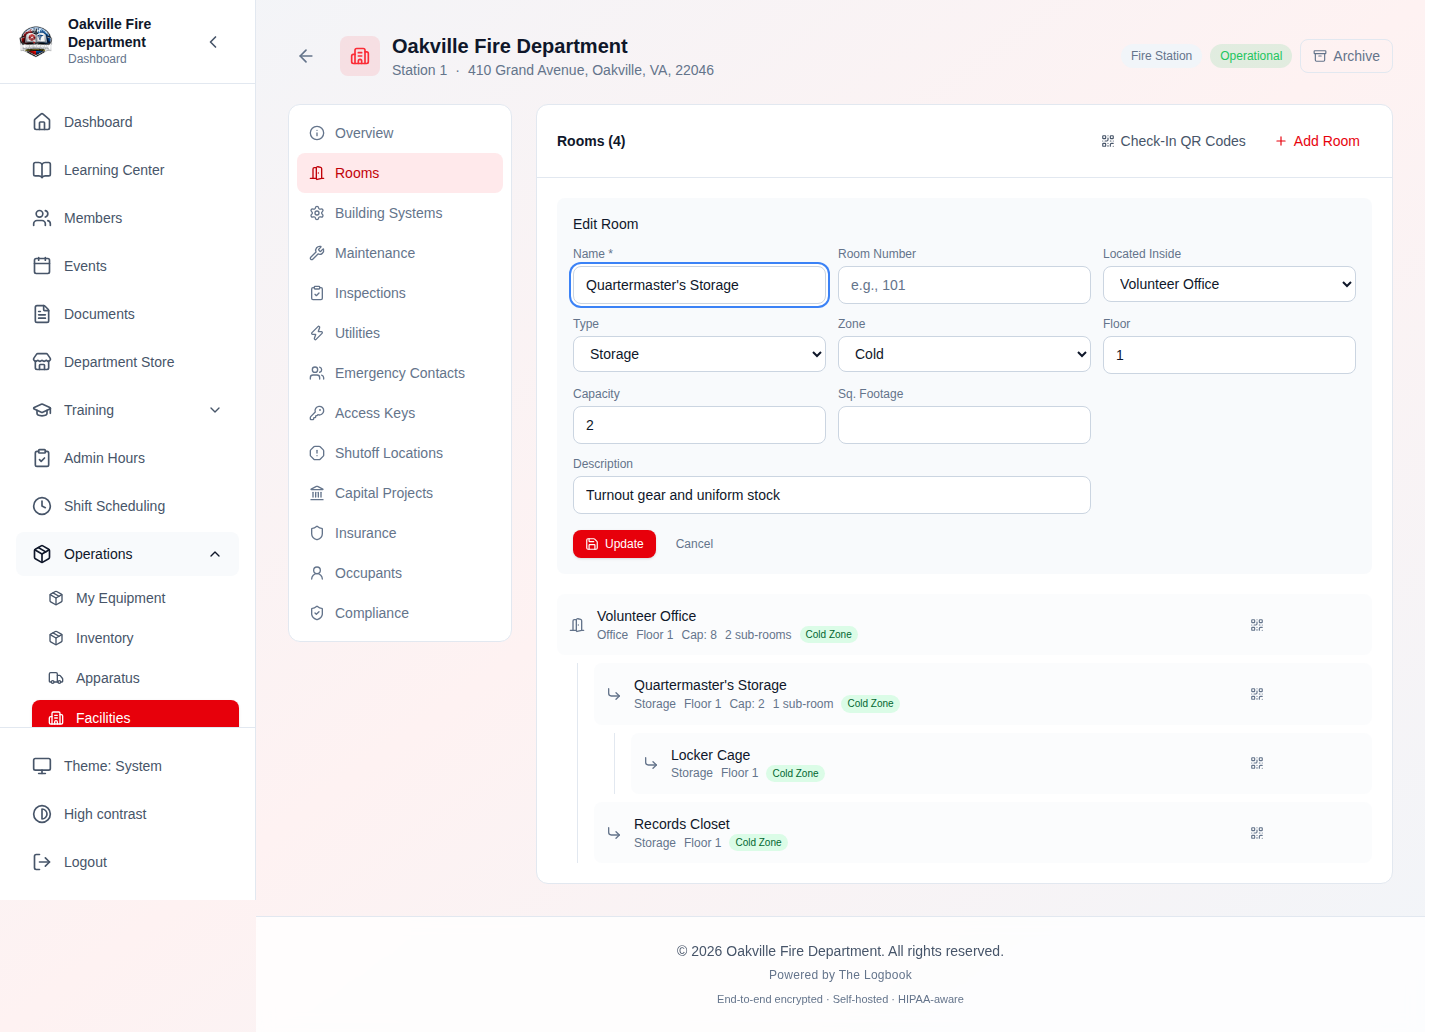
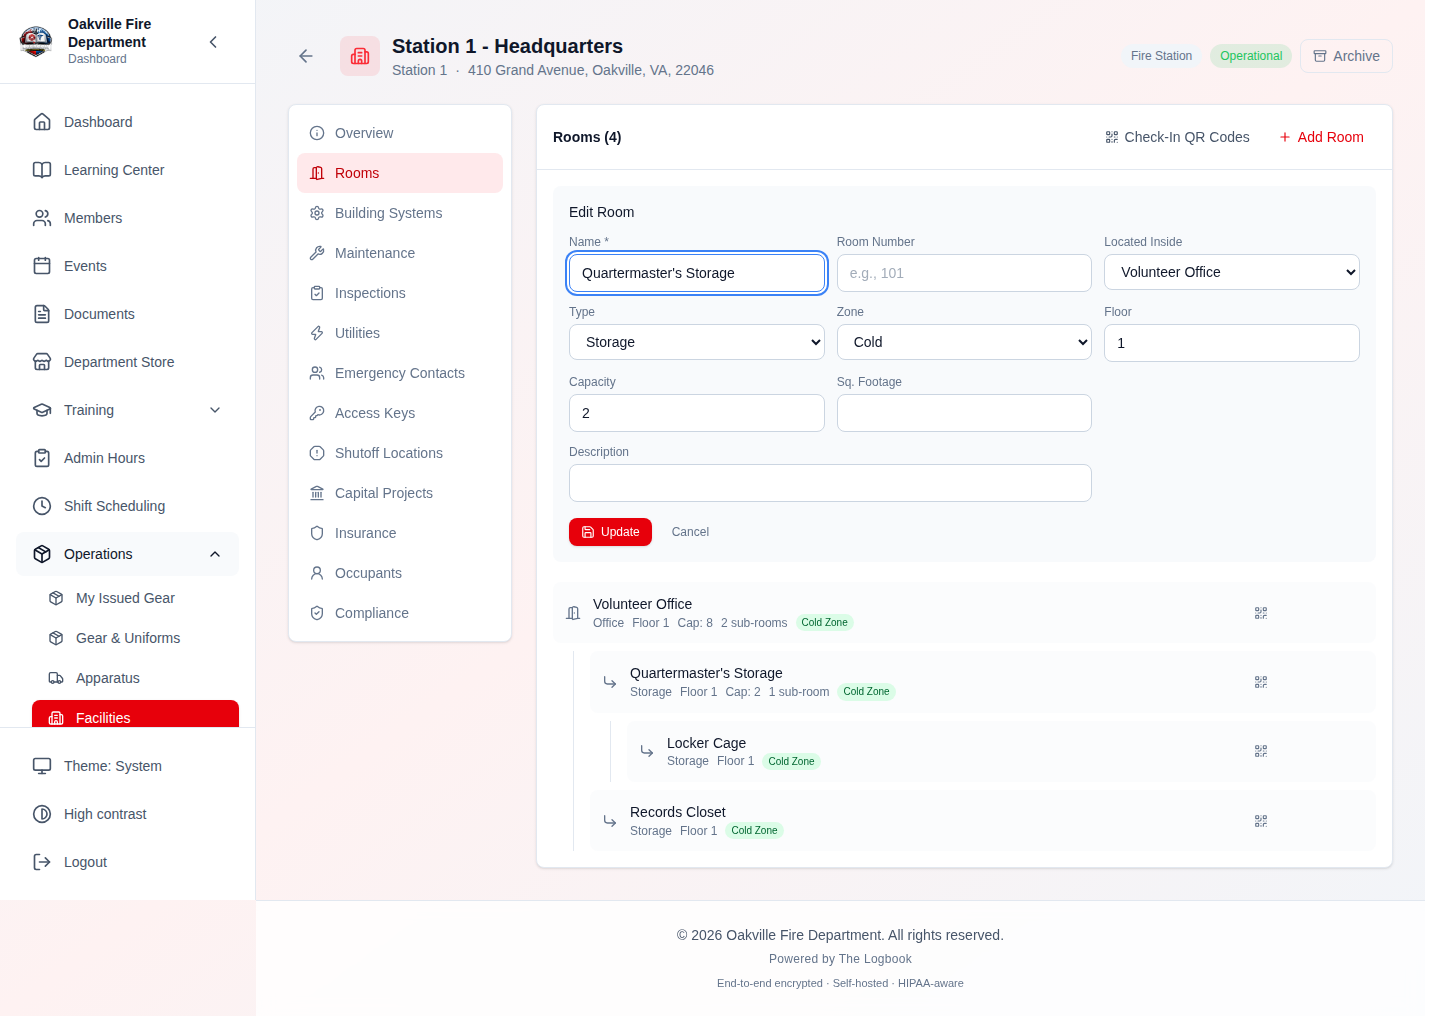
Seed the room tree, and fix what the delete confirmation promised
The three nested-room captures (06-24, 06-25, 06-26) failed with a 20-second
locator timeout on a room nothing had created. The currency log described them
as re-shooting rather than going stale, and half of that was true: the manifest
drives the capture, but seed_demo_data.py never contained the word "Volunteer
Office". The tree was built by hand during the 2026-08-17 capture session and
lived only in whichever database that session was using; dropping that database
destroyed it.

HQ_ROOMS now seeds it -- Volunteer Office, its two sub-rooms, and the grandchild
under one of them -- hung off the facility named in FACILITIES[0] rather than
off whichever the API returns first. A tree that moved between runs would point
three shots at an empty Rooms section without failing anything.

Capturing it surfaced a defect worth more than the screenshot. The delete
confirmation counted descendants, so deleting a room with two sub-rooms and one
grandchild promised that "3 sub-rooms will move up a level". The backend
re-parents WHERE parent_room_id = room_id, so 2 do: a grandchild keeps its own
parent and rides along inside that subtree. The dialog also contradicted the row
badge directly above it, which has always shown the direct count. On a
confirmation whose only job is to state the consequence of something
irreversible, being wrong about the consequence is the whole problem. It now
uses the direct count, with a test that fails against the old implementation.
[…]

diff --git a/frontend/src/modules/facilities/components/RoomsSection.tsx b/frontend/src/modules/facilities/components/RoomsSection.tsx
@@ -18,7 +18,7 @@ import type { Room } from '../types';
 import { enumLabel, ZONE_CLASSIFICATION_COLORS } from '../types';
 import { inputCls, labelCls, MAX_ROOM_NESTING_DEPTH, ROOM_TYPE_OPTIONS, ZONE_OPTIONS } from '../constants';
 import type { RoomNode } from '../roomTree';
-import { buildRoomTree, collectSubtreeIds, countDescendants, orderRoomsByHierarchy } from '../roomTree';
+import { buildRoomTree, collectSubtreeIds, orderRoomsByHierarchy } from '../roomTree';
 import { blankToNull, numberOrNull } from '../../../utils/formValues';
 import { getErrorMessage } from '../../../utils/errorHandling';
 import { formatNumber } from '../../../utils/dateFormatting';
@@ -229,7 +229,14 @@ export default function RoomsSection({ facilityId, canCreate, canEdit, canDelete
   };
 
   const handleDelete = async (node: RoomNode) => {
-    const nested = countDescendants(node);
+    // Direct children, not the whole subtree. The backend re-parents only the
+    // rooms whose parent is this one (`WHERE parent_room_id = room_id`), so a
+    // grandchild keeps its own parent and moves up inside that subtree rather
+    // than one level on its own. Counting descendants overstated what happens:
+    // deleting a room with two sub-rooms and one grandchild promised that "3
+    // sub-rooms will move up a level" when 2 do -- and contradicted the row
+    // badge directly above it, which has always shown the direct count.
+    const nested = node.children.length;
     // Sub-rooms survive: the backend re-parents them onto this room's parent.
     const message = nested
       ? `Delete "${node.room.name}"? Its ${nested === 1 ? 'sub-room' : `${nested} sub-rooms`} will move up a level rather than be deleted. This cannot be undone.`

diff --git a/frontend/src/modules/facilities/components/RoomsSection.test.tsx b/frontend/src/modules/facilities/components/RoomsSection.test.tsx
@@ -203,4 +203,39 @@ describe('RoomsSection nesting', () => {
       expect(deleteRoom).toHaveBeenCalledWith('office');
     });
   });
+
+  it('counts only the rooms that actually move up, not the whole subtree', async () => {
+    // The backend re-parents `WHERE parent_room_id = room_id`, so a grandchild
+    // keeps its own parent and rides along inside that subtree. Counting
+    // descendants told the officer "3 sub-rooms will move up a level" when 2
+    // do, on a dialog whose whole job is to state the consequence of something
+    // irreversible -- and disagreed with the row badge directly above it.
+    const lockerCage = {
+      id: 'locker-cage',
+      facilityId: 'facility-1',
+      name: 'Locker Cage',
+      roomType: 'storage',
+      parentRoomId: 'storage',
+      createdAt: '2026-08-16T00:00:00Z',
+      updatedAt: '2026-08-16T00:00:00Z',
+    };
+    const recordsCloset = {
+      id: 'records-closet',
+      facilityId: 'facility-1',
+      name: 'Records Closet',
+      roomType: 'storage',
+      parentRoomId: 'office',
+      createdAt: '2026-08-16T00:00:00Z',
+      updatedAt: '2026-08-16T00:00:00Z',
+    };
+    getRooms.mockResolvedValue([office, storage, lockerCage, recordsCloset]);
+
+    const user = userEvent.setup();
+    renderSection();
+
+    await user.click(await screen.findByRole('button', { name: 'Delete room Volunteer Office' }));
+
+    expect(await screen.findByText(/2 sub-rooms will move up a level/)).toBeInTheDocument();
+    expect(screen.queryByText(/3 sub-rooms will move up a level/)).not.toBeInTheDocument();
+  });
 });

diff --git a/scripts/screenshots/seed_demo_data.py b/scripts/screenshots/seed_demo_data.py
@@ -846,6 +846,28 @@ FACILITIES = [
     ("Training & Administration Center", "22 Depot Street", 2004, 9200, 1),
 ]
 
+# Rooms nested inside rooms, at headquarters.
+#
+# Three guide-06 captures (06-24 nested tree, 06-25 "Located Inside", 06-26 the
+# delete-with-sub-rooms confirmation) and guide 19's rooms marker all photograph
+# this tree, and it needs three levels to show anything: a container reporting
+# how many rooms it holds, a sub-room that is itself a container, and a leaf.
+#
+# It was built by hand during the 2026-08-17 capture run and never written
+# down, so it lived only in whichever database that session happened to be
+# using. Dropping that database destroyed it, and the three shots -- which the
+# currency log described as re-shooting rather than going stale -- failed with
+# a 20s locator timeout on a room nothing had created.
+#
+# ``(name, room_type, floor, capacity, parent name or None)``. Order matters:
+# a parent has to exist before the row naming it.
+HQ_ROOMS = [
+    ("Volunteer Office", "office", 1, 8, None),
+    ("Quartermaster's Storage", "storage", 1, 2, "Volunteer Office"),
+    ("Locker Cage", "storage", 1, None, "Quartermaster's Storage"),
+    ("Records Closet", "storage", 1, None, "Volunteer Office"),
+]
+
 
 class Seeder:
     def __init__(self, api: Api, base_url: str, bulk_prospects: int = 0) -> None:
@@ -1248,6 +1270,58 @@ class Seeder:
                     },
                 )
             )
+        return created
+
+    def seed_rooms(self, facilities: list[dict]) -> list[dict]:
+        """Build the nested room tree at headquarters.
+
+        Hung off the first facility in FACILITIES rather than "whichever the
+        API returns first": the captures open the facility by that name, and a
+        tree that moved between runs would point three shots at an empty Rooms
+        section without failing anything.
+        """
+        hq_name = FACILITIES[0][0]
+        hq = next((f for f in facilities if f.get("name") == hq_name), None)
+        if not hq:
+            self.blocked.append(
+                f"rooms: no facility named {hq_name!r} to hang the tree on"
+            )
+            return []
+
+        facility_id = pick(hq, "id")
+        existing = items(
+            self.api.get(f"/facilities/rooms?facility_id={facility_id}"), "rooms"
+        )
+        by_name = {r.get("name"): r for r in existing}
+
+        created: list[dict] = []
+        for name, room_type, floor, capacity, parent_name in HQ_ROOMS:
+            if name in by_name:
+                continue
+            parent = by_name.get(parent_name) if parent_name else None
+            if parent_name and not parent:
+                # The parent failed to create, so this row would silently land
+                # at the top level and flatten the tree the shots are of.
+                self.blocked.append(
+                    f"rooms: {name!r} needs {parent_name!r}, which is not there"
+                )
+                continue
+            payload = {
+                "facility_id": facility_id,
+                "name": name,
+                "floor": floor,
+                "room_type": room_type,
+                # Cold Zone renders as a badge on every row, which is what the
+                # tree capture shows beside the sub-room counts.
+                "zone_classification": "cold",
+            }
+            if capacity is not None:
+                payload["capacity"] = capacity
+            if parent:
+                payload["parent_room_id"] = pick(parent, "id")
+            room = self.api.post("/facilities/rooms", payload)
+            by_name[name] = room
+            created.append(room)
         return created
 
     def seed_locations(self, facilities: list[dict]) -> list[dict]:
@@ -11773,6 +11847,7 @@ class Seeder:
         self.step("member changes", lambda: self.seed_member_changes(members))
         facilities = self.step("facilities", self.seed_facilities) or []
         stations = self.step("stations", lambda: self.seed_locations(facilities)) or []
+        self.step("rooms", lambda: self.seed_rooms(facilities))
         apparatus = self.step("apparatus", lambda: self.seed_apparatus(stations)) or []
         evoc_levels = self.step("evoc levels", self.seed_evoc_levels) or []
         self.step(

diff --git a/docs/training/SCREENSHOT_CURRENCY.md b/docs/training/SCREENSHOT_CURRENCY.md
@@ -1,5 +1,43 @@
 # Screenshot currency
 
+## Captured 2026-08-23 — the room tree, and a fixture that was never written down
+
+`06-24-rooms-nested-tree`, `06-25-room-located-inside` and
+`06-26-room-delete-subrooms` are re-captured, opened, and checked. Two things
+came out of it that outlast the images.
+
+**The room fixture existed only in one database.** The 2026-08-17 entry below
+says these three "are driven from `manifest.mjs` against a seeded demo
+department, so they re-shoot rather than going stale". Half of that was true:
+the manifest drives the capture, but `seed_demo_data.py` never contained the
+word "Volunteer Office". The tree was built by hand during that capture session
+and lived only in whichever database it was using. Dropping that database
+destroyed it, and all three shots failed with a 20-second locator timeout on a
+room nothing had created. The tree is now seeded (`HQ_ROOMS`), hung off the
+facility named in `FACILITIES[0]` rather than off "whichever the API returns
+first" — a tree that moved between runs would point three shots at an empty
+Rooms section without failing anything.
+
+**The delete confirmation misstated what it was about to do.** It counted
+descendants: deleting Volunteer Office — two sub-rooms, one grandchild —
+promised that "3 sub-rooms will move up a level". The backend re-parents
+`WHERE parent_room_id = room_id`, so **2** move; Locker Cage keeps its own
+parent and rides along inside that subtree. The dialog also contradicted the
+row badge directly above it, which has always shown the direct count. On a
+confirmation whose only job is to state the consequence of something
+irreversible, that is worth more than the screenshot. Fixed, with a test that
+fails against the old implementation; `06-26` was re-shot afterwards and now
+reads "Its 2 sub-rooms".
+
+**The stray facility is gone from the pictures.** All three previously showed a
+facility header reading "Oakville Fire Department / Station 1" — the record
+onboarding auto-creates and the seeder then duplicated. They now read
+"Station 1 - Headquarters".
+
+Guide 19's rooms marker asked to reuse this capture rather than take its own
+("shared with lesson 06; capture once, reuse"), so it now references
+`06-24-rooms-nested-tree.png` directly. 439 of 485 filled.
+
 ## Captured 2026-08-23 — the close-out wizard, and why it had never shot
 
 `03-74-settings-call-count-toggle`, `03-75-closeout-step1-attendance`,

diff --git a/docs/training/SCREENSHOT_STATUS.md b/docs/training/SCREENSHOT_STATUS.md
@@ -9,7 +9,7 @@ image still matches the application is tracked by hand in
 [SCREENSHOT_CURRENCY.md](./SCREENSHOT_CURRENCY.md) — this file is
 regenerated wholesale, so that audit cannot live here.
 
-**438 of 485 placeholders filled** (47 remaining).
+**439 of 485 placeholders filled** (46 remaining).
 
 | Guide | Captured | Remaining |
 |-------|---------:|----------:|
@@ -32,6 +32,6 @@ regenerated wholesale, so that audit cannot live here.
 | [16-integrations.md](./16-integrations.md) | 5 | 0 |
 | [17-privacy-data-rights.md](./17-privacy-data-rights.md) | 2 | 2 |
 | [18-storefront.md](./18-storefront.md) | 4 | 0 |
-| [19-august-2026-release-changes.md](./19-august-2026-release-changes.md) | 0 | 23 |
-| **Total** | **438** | **47** |
+| [19-august-2026-release-changes.md](./19-august-2026-release-changes.md) | 1 | 22 |
+| **Total** | **439** | **46** |
 

diff --git a/docs/training/19-august-2026-release-changes.md b/docs/training/19-august-2026-release-changes.md
@@ -258,7 +258,7 @@ re-syncs Locations; clearing floor/capacity/description now persists on save.
 The full walkthrough with screenshot markers lives in
 [Apparatus & Facilities → Nesting rooms inside rooms](./06-apparatus-facilities.md#nesting-rooms-inside-rooms-2026-08-16).
 
-> **[SCREENSHOT NEEDED — nested Rooms tree with counts and add-a-room-inside action (shared with lesson 06; capture once, reuse).]**
+![The Rooms section as a containment tree: sub-rooms indented under the room holding them, each container reporting how many it holds](./images/06-24-rooms-nested-tree.png)
 
 ## Privacy and access tightening (August 15–16)
 
